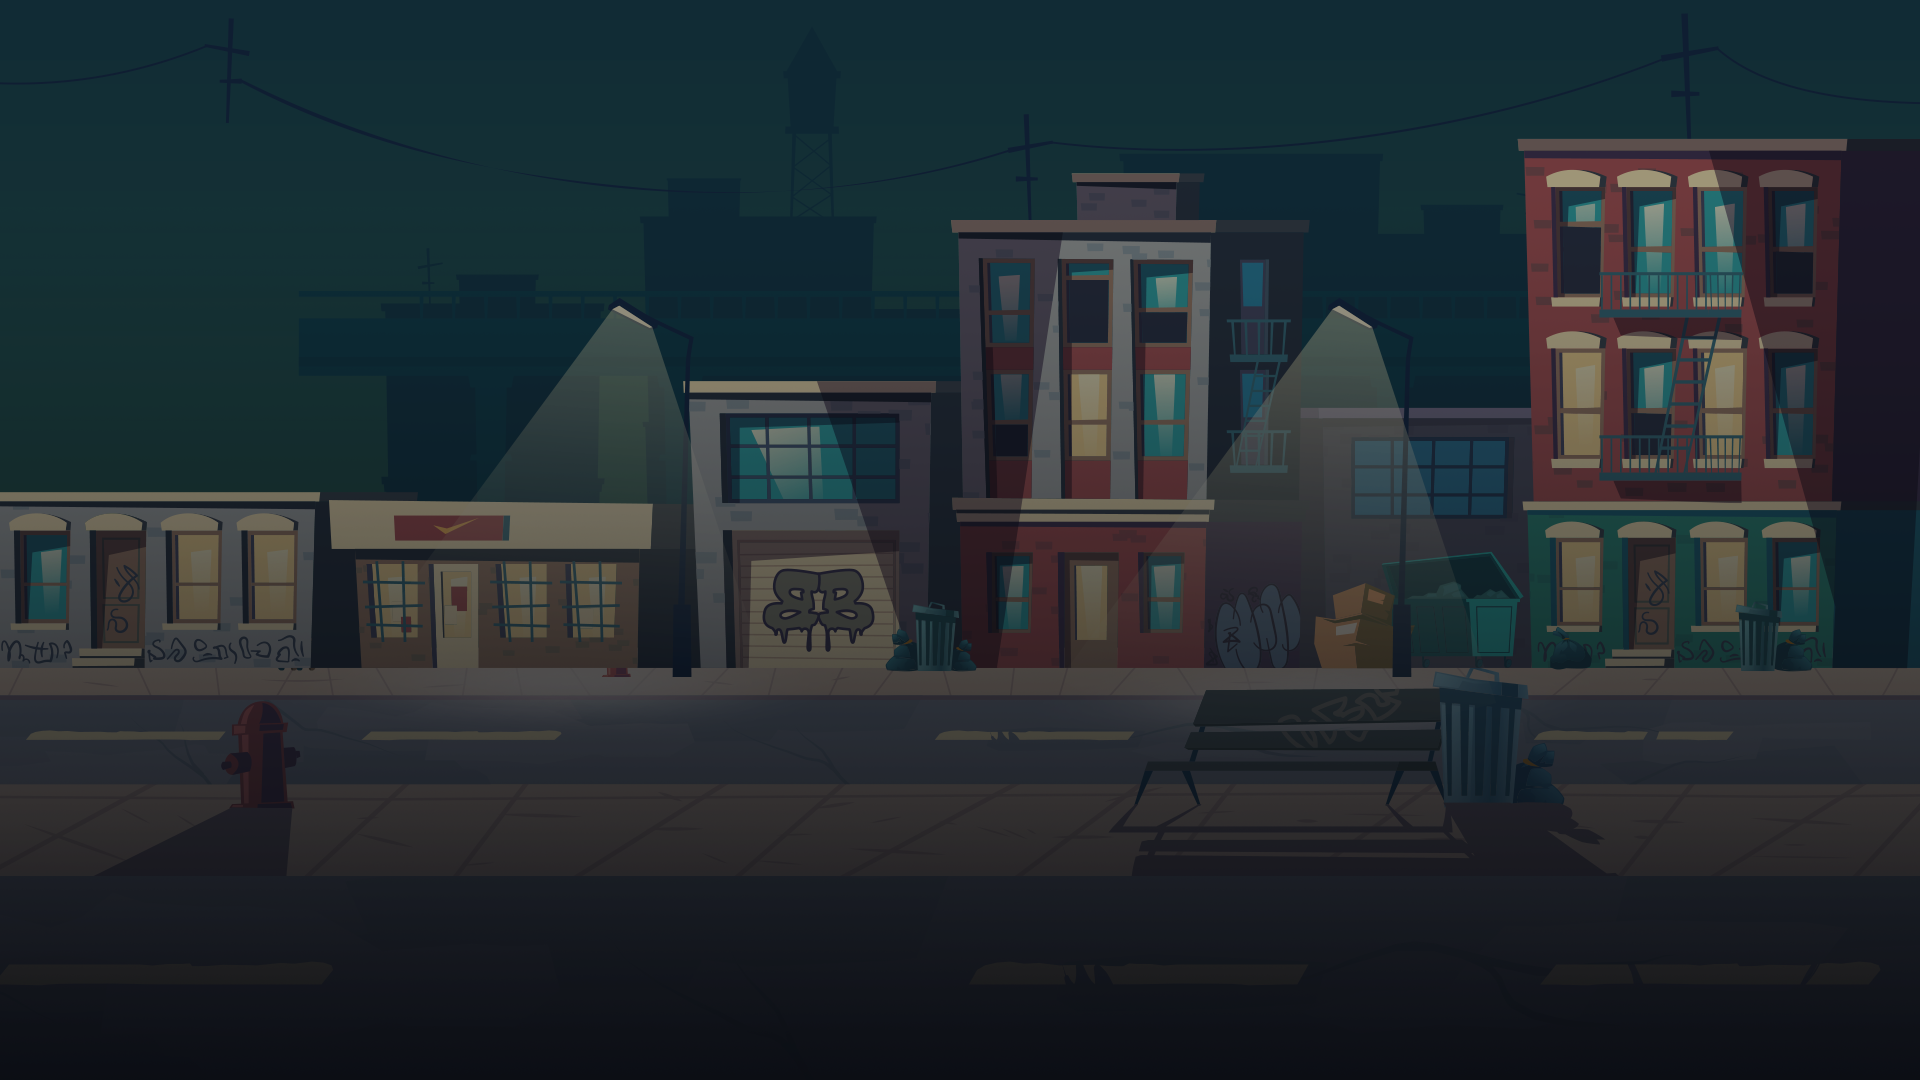
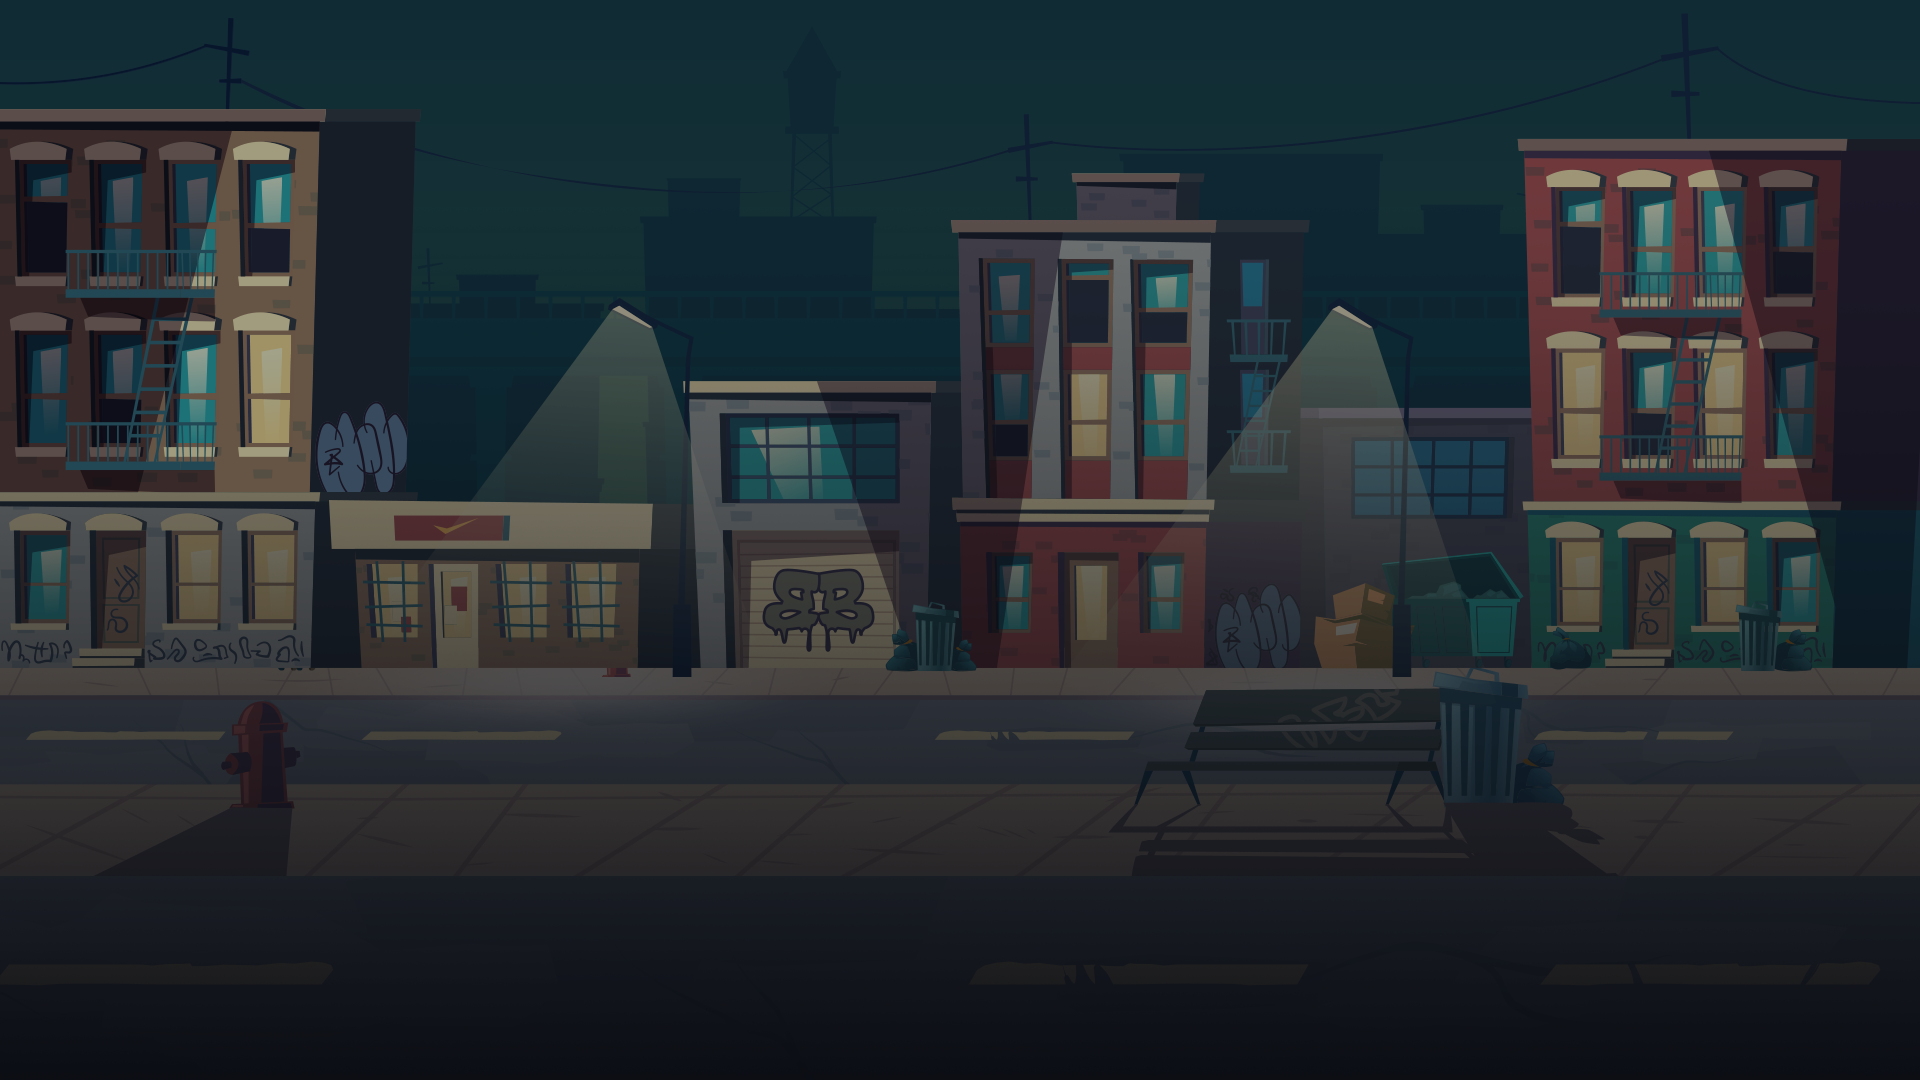
add fog

Changed region(s): [[0.0, 0.0917, 0.2188, 0.4583]]

diff --git a/src/App.js b/src/App.js
@@ -93,37 +93,37 @@ function App() {
       }
     }
 
-    if (state.scene.children[9]) {
-      state.scene.children[9].position.z = -37 * Math.sin(seed1 * 0.04);
-      state.scene.children[9].position.y = -scrollValue * 0.1 - 6;
-    }
     if (state.scene.children[8]) {
-      state.scene.children[8].position.z = -46 * Math.sin(seed2 * 0.04) + 10;
+      state.scene.children[8].position.z = -37 * Math.sin(seed1 * 0.04);
       state.scene.children[8].position.y = -scrollValue * 0.1 - 6;
     }
     if (state.scene.children[7]) {
-      state.scene.children[7].position.z = -49 * Math.sin(seed3 * 0.04);
+      state.scene.children[7].position.z = -46 * Math.sin(seed2 * 0.04) + 10;
       state.scene.children[7].position.y = -scrollValue * 0.1 - 6;
     }
     if (state.scene.children[6]) {
-      state.scene.children[6].position.z = -39 * Math.sin(seed4 * 0.05);
+      state.scene.children[6].position.z = -49 * Math.sin(seed3 * 0.04);
       state.scene.children[6].position.y = -scrollValue * 0.1 - 6;
     }
     if (state.scene.children[5]) {
-      state.scene.children[5].position.z = -39 * Math.sin(seed5 * 0.05);
+      state.scene.children[5].position.z = -39 * Math.sin(seed4 * 0.05);
       state.scene.children[5].position.y = -scrollValue * 0.1 - 6;
+    }
+    if (state.scene.children[4]) {
+      state.scene.children[4].position.z = -39 * Math.sin(seed5 * 0.05);
+      state.scene.children[4].position.y = -scrollValue * 0.1 - 6;
     }
 
 
-    if (state.scene.children[6] && state.scene.children[6].position.z > -38) {
+    if (state.scene.children[5] && state.scene.children[5].position.z > -38) {
       seed4 += 1.0;
-    } else if (state.scene.children[5] && state.scene.children[5].position.z > -38) {
+    } else if (state.scene.children[4] && state.scene.children[4].position.z > -38) {
       seed5 += 1.0;
-    } else if (state.scene.children[9] && state.scene.children[9].position.z > -36) {
+    } else if (state.scene.children[8] && state.scene.children[8].position.z > -36) {
       seed1 += 1.0;
-    } else if (state.scene.children[7] && state.scene.children[7].position.z > -36) {
+    } else if (state.scene.children[6] && state.scene.children[6].position.z > -36) {
       seed3 += 1.0;
-    } else if (state.scene.children[8] && state.scene.children[8].position.z > -35) {
+    } else if (state.scene.children[7] && state.scene.children[7].position.z > -35) {
       seed2 += 1.0;
     }
 
@@ -172,8 +172,8 @@ function App() {
   }
 
   const moveCard = (scrollValue, state) => {
-    if (state.scene.children[10]) {
-      state.scene.children[10].position.x = 65 * aspectRatio - (scrollValue * (aspectRatio - 1));
+    if (state.scene.children[9]) {
+      state.scene.children[9].position.x = 65 * aspectRatio - (scrollValue * (aspectRatio - 1));
     }
   }
 
@@ -182,7 +182,6 @@ function App() {
       <Suspense fallback={<Loader />}>
         <Background position={[0, 0, -60]} scale={13.4} background={mainBackground} />
         <Background position={[-2, 0, -59]} scale={12.4} background={light} />
-        <Background position={[0, 0, -58]} scale={12.4} background={leftBuilding} />
         <Boys position={[4, 0, -39]} scale={8.8} background={firstDoodleLayer} />
         <Boys position={[-3, 0, -39]} scale={8.8} background={secondDoodleLayer} />
         <Boys position={[0, 0, -47]} scale={8.5} background={thirdDoodleLayer} />

diff --git a/src/Pages/master-page/masterPage.js b/src/Pages/master-page/masterPage.js
@@ -1,4 +1,4 @@
-import React from 'react';
+import React, { useEffect } from 'react';
 import { Canvas } from '@react-three/fiber'
 
 import App from '../../App';
@@ -10,6 +10,7 @@ import RoadMap from '../../Pages/road-map-page/roadMapPage';
 import Team from '../../Pages/team-page/teamPage';
 import Model3d from '../../Pages/3dmode-page/3dmodel';
 import Footer from '../../components/footer/footer';
+import NavBar from '../../components/nav-bar/nav';
 
 import Card from '../../components/ui-components/cards/cards';
 
@@ -21,17 +22,19 @@ import card2 from '../../assets/cards-img/2.jpg';
 import card3 from '../../assets/cards-img/3.jpg';
 
 export default function Master() {
+
     return (
         <>
+            <NavBar />
             <div className='container'>
                 <Canvas>
                     <ambientLight />
                     <pointLight position={[10, 10, 10]} distance={100} intensity={4} />
+                    <fog attach="fog" color="#D3D3D3" near={59} far={70} />
                     <App />
                 </Canvas>
             </div>
             <div className='body-container'>
-
                 {/* <Flex alignItems={'center'} justifyContent={'space-evenly'}>
                 <Card imgUrl={card1} />
                 <Card imgUrl={card2} />

diff --git a/src/Pages/road-map-page/roadMapPage.js b/src/Pages/road-map-page/roadMapPage.js
@@ -138,7 +138,7 @@ export default function RoadMap() {
                         left={'120%'}
                         top={'20%'}
                     >
-                        <Flex position={'absolute'} top={'32%'} left={'16%'} flexDirection={'column'}>
+                        <Flex position={'absolute'} top={'28%'} left={'16%'} flexDirection={'column'}>
                             <Text color={'#205873'} fontSize={'32px'} textAlign={'center'}>Boujee BoyZ enters the Metaverse</Text>
                             <Flex>
                                 <Text fontSize={'38px'} color={'#61dde1'}>9999</Text>

diff --git a/src/index.js b/src/index.js
@@ -9,16 +9,13 @@ import { ChakraProvider } from '@chakra-ui/react';
 
 import reportWebVitals from './reportWebVitals';
 
-import NavBar from './components/nav-bar/nav';
 import Master from './Pages/master-page/masterPage';
 
 import './index.css';
 
-
 ReactDOM.render(
   <ChakraProvider>
     <BrowserRouter>
-      <NavBar />
       <Routes>
         <Route path='/' element={<Master />} />
       </Routes>
